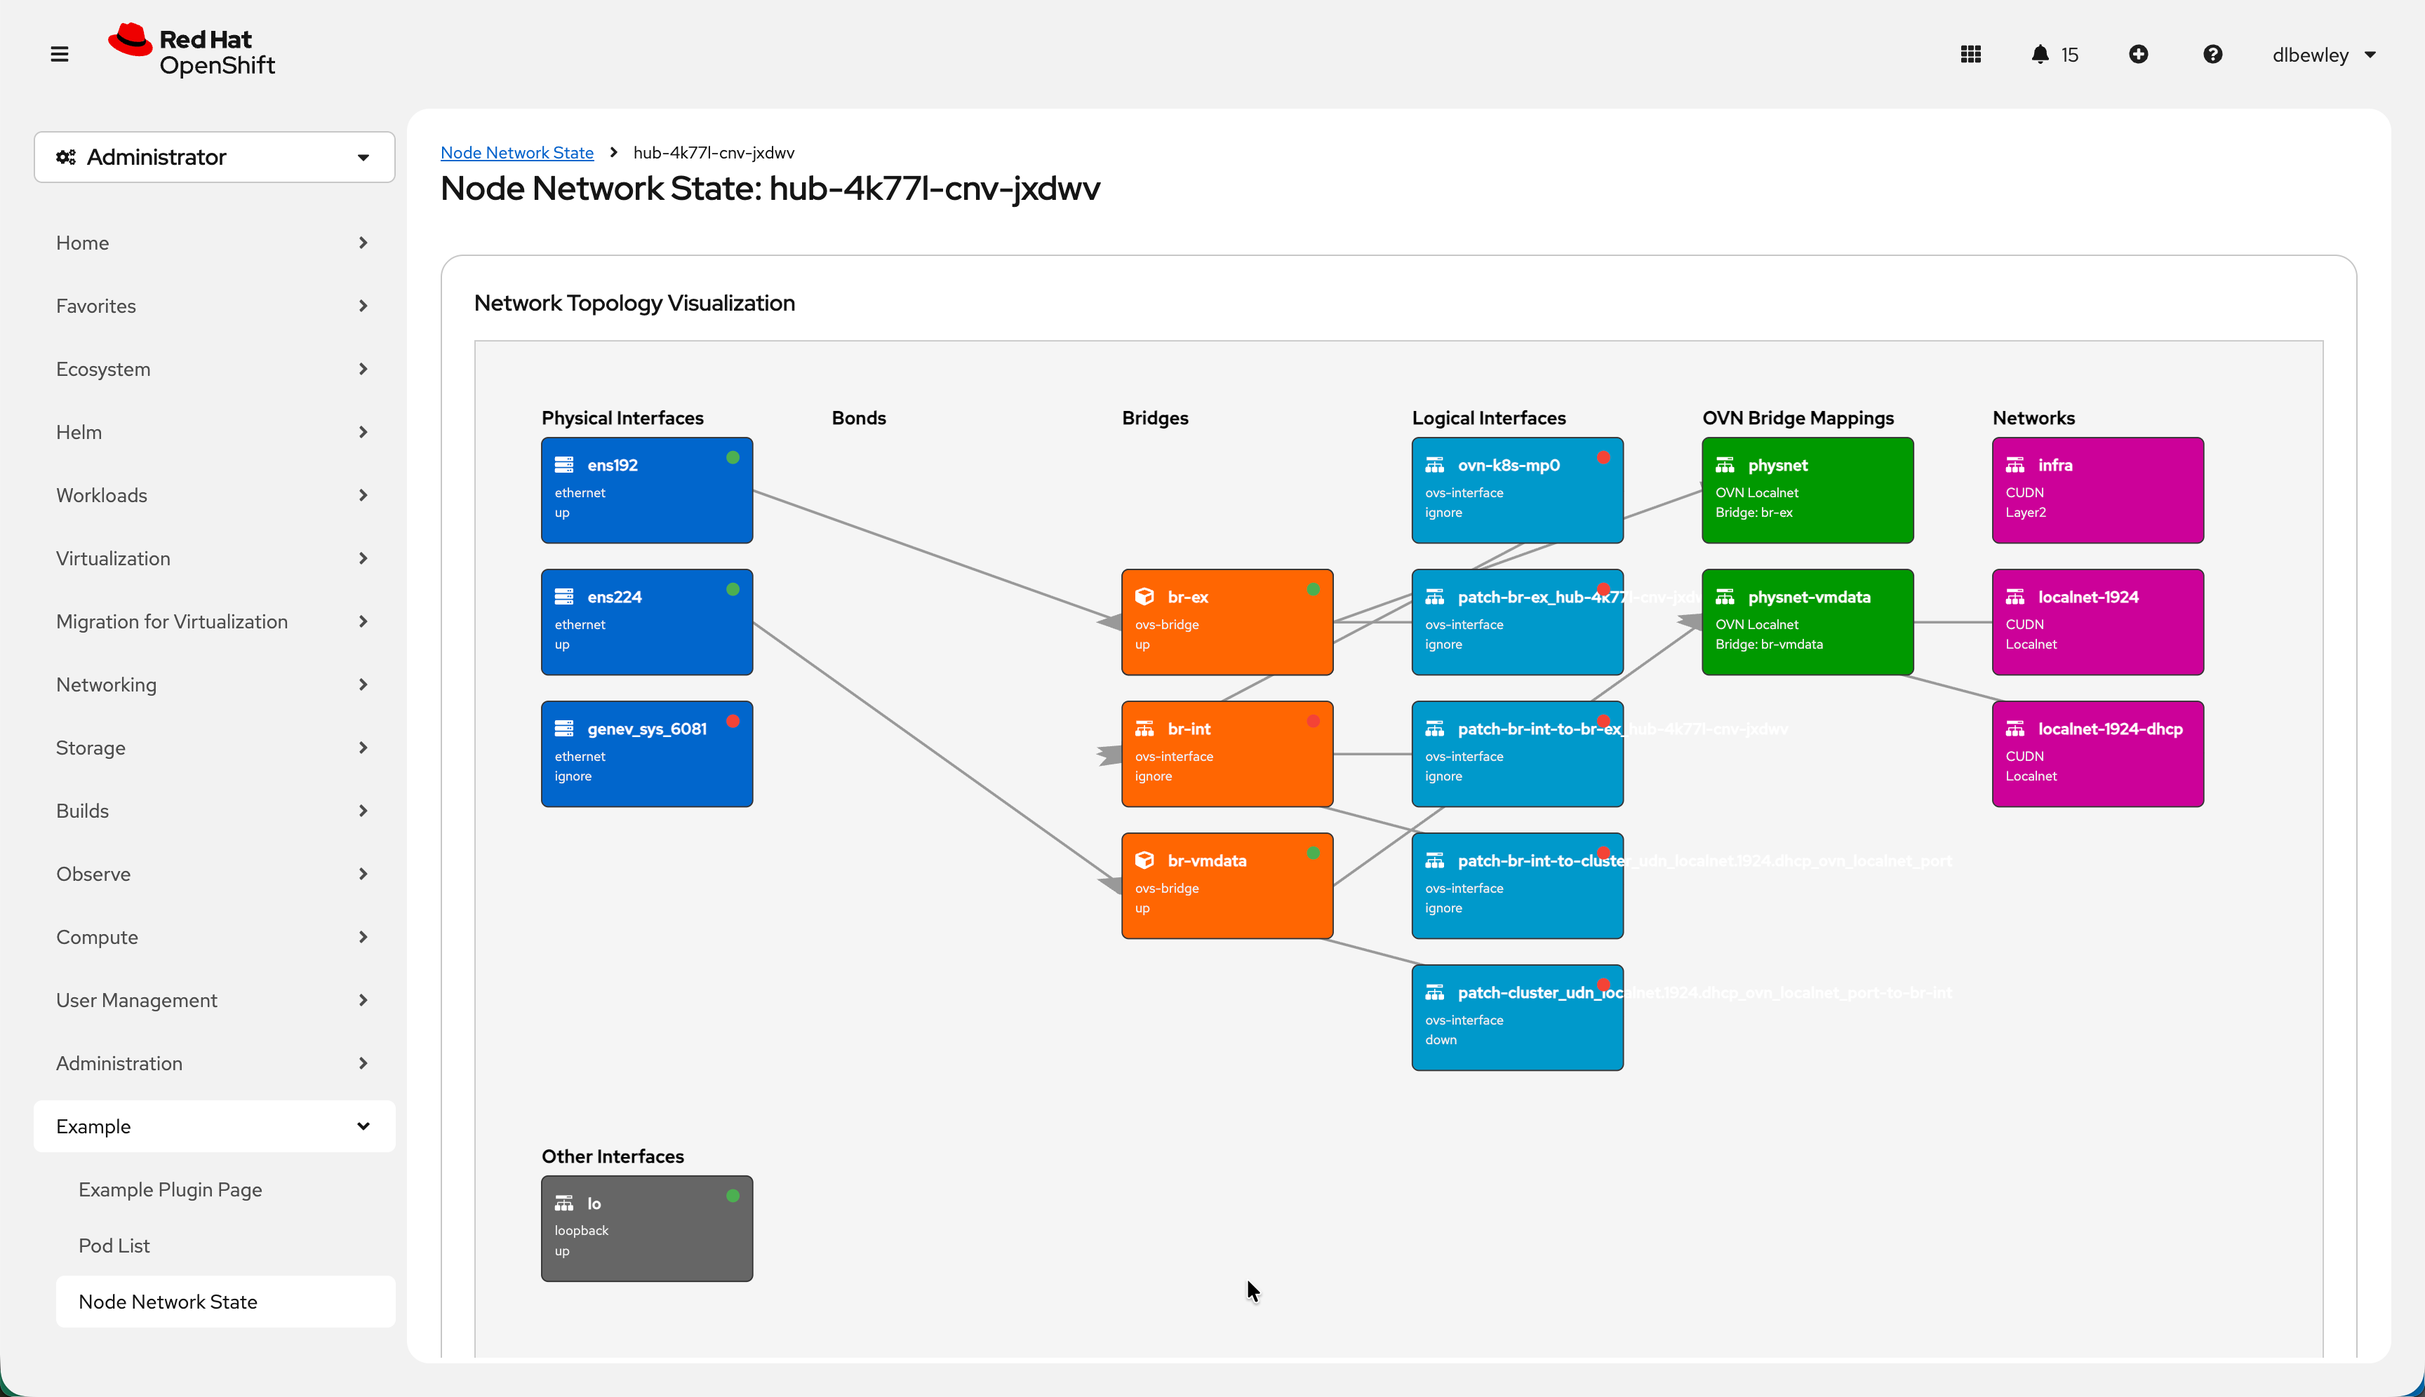
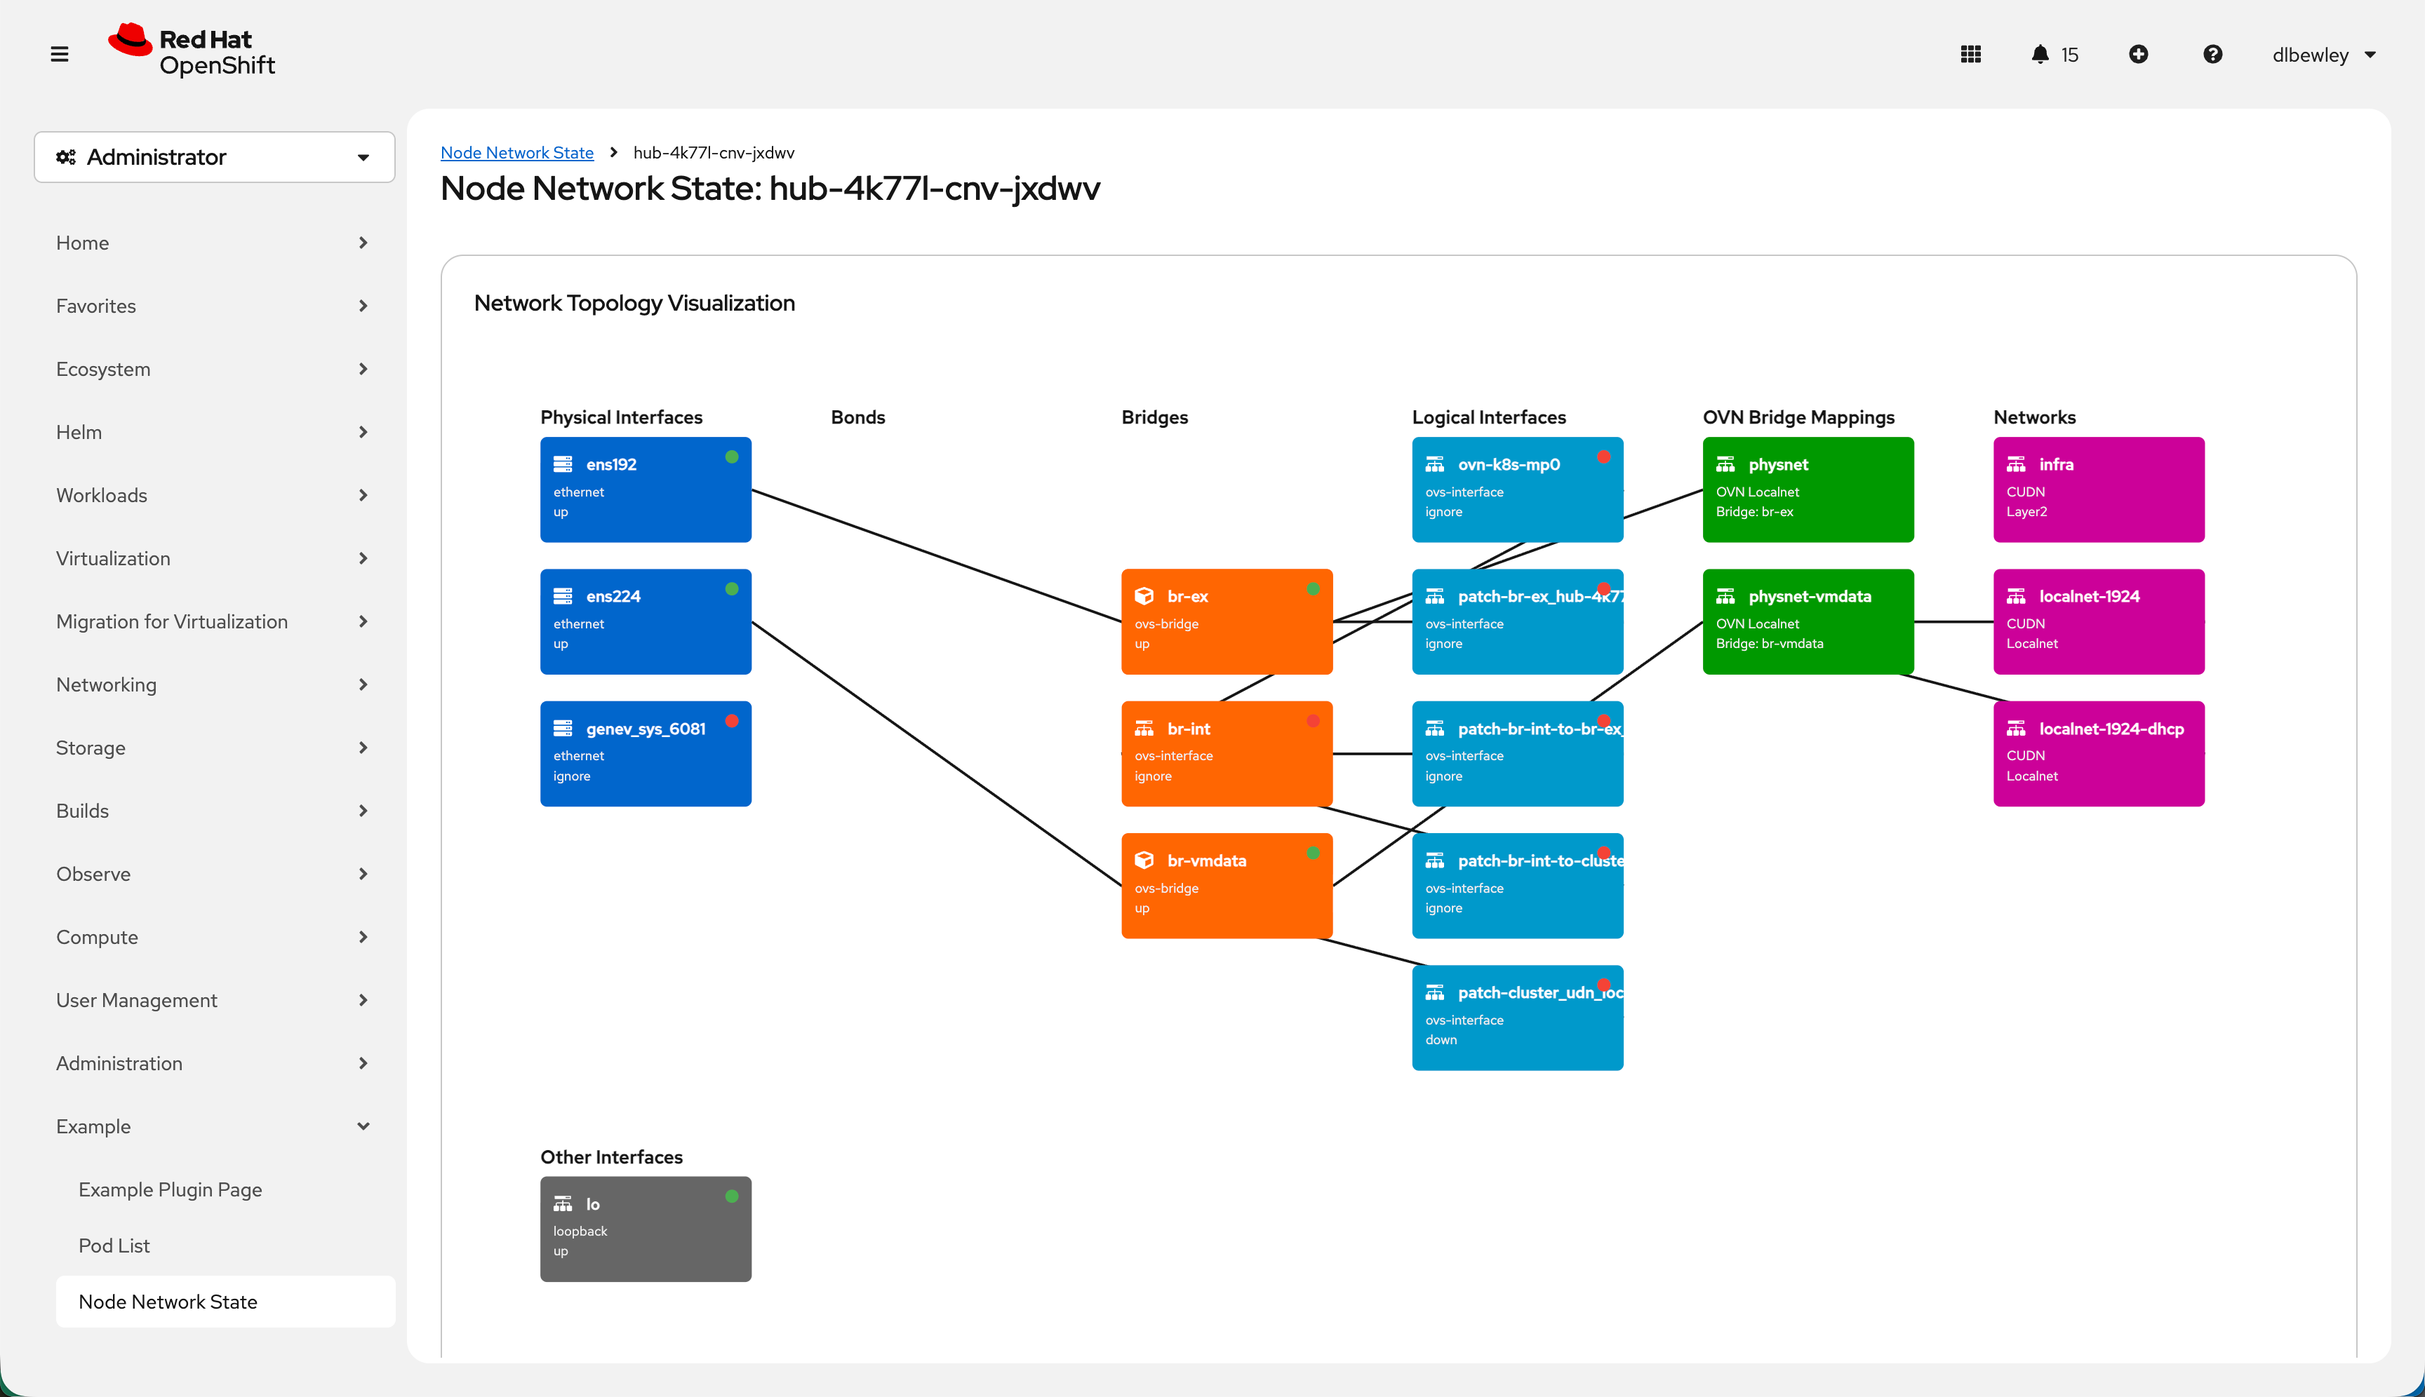
feat: Add attachment nodes to network visualization, introduce interactive popovers, and update styling.

diff --git a/src/components/NodeVisualization.tsx b/src/components/NodeVisualization.tsx
@@ -1,6 +1,6 @@
 import * as React from 'react';
 import { Card, CardBody, CardTitle, Popover, Button, DescriptionList, DescriptionListTerm, DescriptionListGroup, DescriptionListDescription } from '@patternfly/react-core';
-import { NetworkIcon, ServerIcon, TopologyIcon, CubeIcon } from '@patternfly/react-icons';
+import { NetworkIcon, ServerIcon, TopologyIcon, CubeIcon, RouteIcon } from '@patternfly/react-icons';
 
 interface NodeVisualizationProps {
     nns: any; // NodeNetworkState resource
@@ -14,7 +14,7 @@ const NodeVisualization: React.FC<NodeVisualizationProps> = ({ nns, cudns = [], 
     const bridgeMappings = ovn['bridge-mappings'] || [];
 
     // Simple layout logic
-    const width = 1400; // Increased width for new columns
+    const width = 1600; // Increased width for new columns
     const height = 800;
     const padding = 50;
     const itemHeight = 80;
@@ -71,6 +71,31 @@ const NodeVisualization: React.FC<NodeVisualizationProps> = ({ nns, cudns = [], 
         nodePositions[`cudn-${cudn.metadata.name}`] = { x: padding + (colSpacing * 5), y: padding + (index * (itemHeight + 20)) };
     });
 
+    // Attachments (from CUDN status)
+    const attachmentNodes: any[] = [];
+    cudns.forEach((cudn: any) => {
+        const condition = cudn.status?.conditions?.find((c: any) => c.type === 'NetworkCreated' && c.status === 'True');
+        if (condition && condition.message) {
+            const match = condition.message.match(/\[(.*?)\]/);
+            if (match && match[1]) {
+                const namespaces = match[1].split(',').map((ns: string) => ns.trim());
+                namespaces.forEach((ns: string) => {
+                    attachmentNodes.push({
+                        name: ns,
+                        type: 'attachment',
+                        namespace: ns,
+                        cudn: cudn.metadata.name
+                    });
+                });
+            }
+        }
+    });
+
+    // Attachments positions
+    attachmentNodes.forEach((node: any, index: number) => {
+        nodePositions[`attachment-${node.cudn}-${node.namespace}`] = { x: padding + (colSpacing * 6), y: padding + (index * (itemHeight + 20)) };
+    });
+
     // Dynamic height calculation
     const maxRows = Math.max(
         ethInterfaces.length,
@@ -79,6 +104,7 @@ const NodeVisualization: React.FC<NodeVisualizationProps> = ({ nns, cudns = [], 
         logicalInterfaces.length,
         bridgeMappings.length,
         cudns.length,
+        attachmentNodes.length,
         Math.ceil(otherInterfaces.length / 4) + 2
     );
     const calculatedHeight = Math.max(600, padding + (maxRows * (itemHeight + 20)) + 200);
@@ -90,8 +116,9 @@ const NodeVisualization: React.FC<NodeVisualizationProps> = ({ nns, cudns = [], 
             case 'linux-bridge':
             case 'ovs-bridge': return <CubeIcon />;
             case 'ovs-interface': return <NetworkIcon />; // Logical
-            case 'ovn-mapping': return <NetworkIcon />;
+            case 'ovn-mapping': return <RouteIcon />;
             case 'cudn': return <NetworkIcon />;
+            case 'attachment': return <NetworkIcon />;
             default: return <NetworkIcon />;
         }
     };
@@ -111,11 +138,24 @@ const NodeVisualization: React.FC<NodeVisualizationProps> = ({ nns, cudns = [], 
             <line
                 key={`${startNode}-${endNode}`}
                 x1={x1} y1={y1} x2={x2} y2={y2}
-                stroke="#999"
+                stroke="currentColor"
                 strokeWidth="2"
-                markerEnd="url(#arrowhead)"
             />
         );
+    };
+
+    // State for Popover
+    const [activeNode, setActiveNode] = React.useState<any>(null);
+    const [anchorElement, setAnchorElement] = React.useState<any>(null);
+
+    const handleNodeClick = (event: React.MouseEvent, iface: any) => {
+        setAnchorElement(event.currentTarget);
+        setActiveNode(iface);
+    };
+
+    const handlePopoverClose = () => {
+        setActiveNode(null);
+        setAnchorElement(null);
     };
 
     const renderInterfaceNode = (iface: any, x: number, y: number, color: string, typeOverride?: string) => {
@@ -133,12 +173,20 @@ const NodeVisualization: React.FC<NodeVisualizationProps> = ({ nns, cudns = [], 
             displayName = iface.metadata.name;
             displayType = 'CUDN';
             displayState = iface.spec?.network?.topology || 'Unknown';
+        } else if (type === 'attachment') {
+            displayName = iface.namespace;
+            displayType = 'Namespace';
+            displayState = 'Attached';
         }
 
         return (
-            <g transform={`translate(${x}, ${y})`} style={{ cursor: 'pointer' }}>
+            <g
+                transform={`translate(${x}, ${y})`}
+                style={{ cursor: 'pointer' }}
+                onClick={(e) => handleNodeClick(e, iface)}
+            >
                 <title>{displayName} ({displayType})</title>
-                <rect width={itemWidth} height={itemHeight} rx={5} fill={color} stroke="#333" strokeWidth={1} />
+                <rect width={itemWidth} height={itemHeight} rx={5} fill={color} stroke="var(--pf-global--BorderColor--100)" strokeWidth={1} />
                 <foreignObject x={10} y={10} width={20} height={20}>
                     <div style={{ color: '#fff' }}>{Icon}</div>
                 </foreignObject>
@@ -167,12 +215,7 @@ const NodeVisualization: React.FC<NodeVisualizationProps> = ({ nns, cudns = [], 
         <Card isFullHeight>
             <CardTitle>Network Topology Visualization</CardTitle>
             <CardBody>
-                <svg width="100%" height={calculatedHeight} viewBox={`0 0 ${width} ${calculatedHeight}`} style={{ border: '1px solid #ccc', background: '#f5f5f5' }}>
-                    <defs>
-                        <marker id="arrowhead" markerWidth="10" markerHeight="7" refX="0" refY="3.5" orient="auto">
-                            <polygon points="0 0, 10 3.5, 0 7" fill="#999" />
-                        </marker>
-                    </defs>
+                <svg width="100%" height={calculatedHeight} viewBox={`0 0 ${width} ${calculatedHeight}`} style={{ border: '1px solid var(--pf-global--BorderColor--100)', background: 'var(--pf-global--BackgroundColor--200)', color: 'var(--pf-global--Color--100)' }}>
 
                     {/* Connectors */}
                     {interfaces.map((iface: any) => {
@@ -197,45 +240,59 @@ const NodeVisualization: React.FC<NodeVisualizationProps> = ({ nns, cudns = [], 
                         }
                         return null;
                     })}
+                    {attachmentNodes.map((node: any) => {
+                        // Connect Attachment to CUDN
+                        if (nodePositions[`cudn-${node.cudn}`]) {
+                            // Draw FROM Attachment TO CUDN
+                            return renderConnector(`attachment-${node.cudn}-${node.namespace}`, `cudn-${node.cudn}`);
+                        }
+                        return null;
+                    })}
 
                     {/* Layer 1: Physical Interfaces */}
-                    <text x={padding} y={padding - 10} fontWeight="bold">Physical Interfaces</text>
+                    <text x={padding} y={padding - 10} fontWeight="bold" fill="currentColor">Physical Interfaces</text>
                     {ethInterfaces.map((iface: any) =>
                         nodePositions[iface.name] && renderInterfaceNode(iface, nodePositions[iface.name].x, nodePositions[iface.name].y, '#0066CC')
                     )}
 
                     {/* Layer 2: Bonds */}
-                    <text x={padding + colSpacing} y={padding - 10} fontWeight="bold">Bonds</text>
+                    <text x={padding + colSpacing} y={padding - 10} fontWeight="bold" fill="currentColor">Bonds</text>
                     {bondInterfaces.map((iface: any) =>
                         nodePositions[iface.name] && renderInterfaceNode(iface, nodePositions[iface.name].x, nodePositions[iface.name].y, '#663399')
                     )}
 
                     {/* Layer 3: Bridges */}
-                    <text x={padding + (colSpacing * 2)} y={padding - 10} fontWeight="bold">Bridges</text>
+                    <text x={padding + (colSpacing * 2)} y={padding - 10} fontWeight="bold" fill="currentColor">Bridges</text>
                     {bridgeInterfaces.map((iface: any) =>
                         nodePositions[iface.name] && renderInterfaceNode(iface, nodePositions[iface.name].x, nodePositions[iface.name].y, '#FF6600')
                     )}
 
                     {/* Layer 4: Logical Interfaces */}
-                    <text x={padding + (colSpacing * 3)} y={padding - 10} fontWeight="bold">Logical Interfaces</text>
+                    <text x={padding + (colSpacing * 3)} y={padding - 10} fontWeight="bold" fill="currentColor">Logical Interfaces</text>
                     {logicalInterfaces.map((iface: any) =>
                         nodePositions[iface.name] && renderInterfaceNode(iface, nodePositions[iface.name].x, nodePositions[iface.name].y, '#0099CC')
                     )}
 
                     {/* Layer 5: OVN Mappings */}
-                    <text x={padding + (colSpacing * 4)} y={padding - 10} fontWeight="bold">OVN Bridge Mappings</text>
+                    <text x={padding + (colSpacing * 4)} y={padding - 10} fontWeight="bold" fill="currentColor">OVN Bridge Mappings</text>
                     {bridgeMappings.map((mapping: any) =>
                         nodePositions[`ovn-${mapping.localnet}`] && renderInterfaceNode(mapping, nodePositions[`ovn-${mapping.localnet}`].x, nodePositions[`ovn-${mapping.localnet}`].y, '#009900', 'ovn-mapping')
                     )}
 
                     {/* Layer 6: Networks (CUDNs) */}
-                    <text x={padding + (colSpacing * 5)} y={padding - 10} fontWeight="bold">Networks</text>
+                    <text x={padding + (colSpacing * 5)} y={padding - 10} fontWeight="bold" fill="currentColor">Networks</text>
                     {cudns.map((cudn: any) =>
                         nodePositions[`cudn-${cudn.metadata.name}`] && renderInterfaceNode(cudn, nodePositions[`cudn-${cudn.metadata.name}`].x, nodePositions[`cudn-${cudn.metadata.name}`].y, '#CC0099', 'cudn')
                     )}
 
-                    {/* Layer 7: Others */}
-                    <text x={padding} y={calculatedHeight - 150} fontWeight="bold">Other Interfaces</text>
+                    {/* Layer 7: Attachments (from CUDN status) */}
+                    <text x={padding + (colSpacing * 6)} y={padding - 10} fontWeight="bold" fill="currentColor">Attachments</text>
+                    {attachmentNodes.map((node: any) =>
+                        nodePositions[`attachment-${node.cudn}-${node.namespace}`] && renderInterfaceNode(node, nodePositions[`attachment-${node.cudn}-${node.namespace}`].x, nodePositions[`attachment-${node.cudn}-${node.namespace}`].y, 'var(--pf-global--palette--gold-400)', 'attachment')
+                    )}
+
+                    {/* Layer 8: Others */}
+                    <text x={padding} y={calculatedHeight - 150} fontWeight="bold" fill="currentColor">Other Interfaces</text>
                     <g transform={`translate(${padding}, ${calculatedHeight - 140})`}>
                         {otherInterfaces.map((iface: any, index: number) => {
                             const col = index % 4;
@@ -244,6 +301,45 @@ const NodeVisualization: React.FC<NodeVisualizationProps> = ({ nns, cudns = [], 
                         })}
                     </g>
                 </svg>
+
+                <Popover
+                    triggerRef={() => anchorElement}
+                    isVisible={!!activeNode}
+                    shouldClose={handlePopoverClose}
+                    headerContent={<div>{activeNode?.name || activeNode?.localnet || activeNode?.metadata?.name}</div>}
+                    bodyContent={
+                        <DescriptionList isCompact>
+                            <DescriptionListGroup>
+                                <DescriptionListTerm>Type</DescriptionListTerm>
+                                <DescriptionListDescription>{activeNode?.type || (activeNode?.localnet ? 'OVN Localnet' : 'CUDN')}</DescriptionListDescription>
+                            </DescriptionListGroup>
+                            <DescriptionListGroup>
+                                <DescriptionListTerm>State</DescriptionListTerm>
+                                <DescriptionListDescription>{activeNode?.state || activeNode?.spec?.network?.topology || 'N/A'}</DescriptionListDescription>
+                            </DescriptionListGroup>
+                            {activeNode?.mac_address && (
+                                <DescriptionListGroup>
+                                    <DescriptionListTerm>MAC Address</DescriptionListTerm>
+                                    <DescriptionListDescription>{activeNode.mac_address}</DescriptionListDescription>
+                                </DescriptionListGroup>
+                            )}
+                            {activeNode?.mtu && (
+                                <DescriptionListGroup>
+                                    <DescriptionListTerm>MTU</DescriptionListTerm>
+                                    <DescriptionListDescription>{activeNode.mtu}</DescriptionListDescription>
+                                </DescriptionListGroup>
+                            )}
+                            {activeNode?.ipv4?.address && activeNode.ipv4.address.length > 0 && (
+                                <DescriptionListGroup>
+                                    <DescriptionListTerm>IPv4</DescriptionListTerm>
+                                    <DescriptionListDescription>{activeNode.ipv4.address[0].ip}/{activeNode.ipv4.address[0].prefix_length}</DescriptionListDescription>
+                                </DescriptionListGroup>
+                            )}
+                        </DescriptionList>
+                    }
+                >
+                    <div style={{ display: 'none' }} />
+                </Popover>
             </CardBody>
         </Card>
     );
